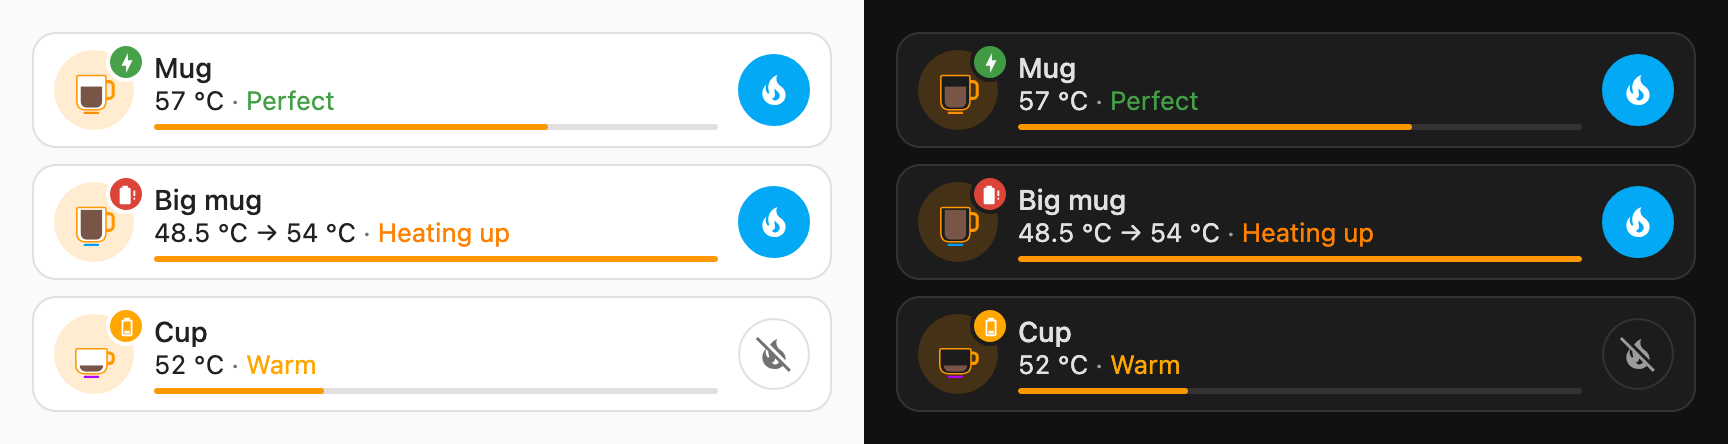
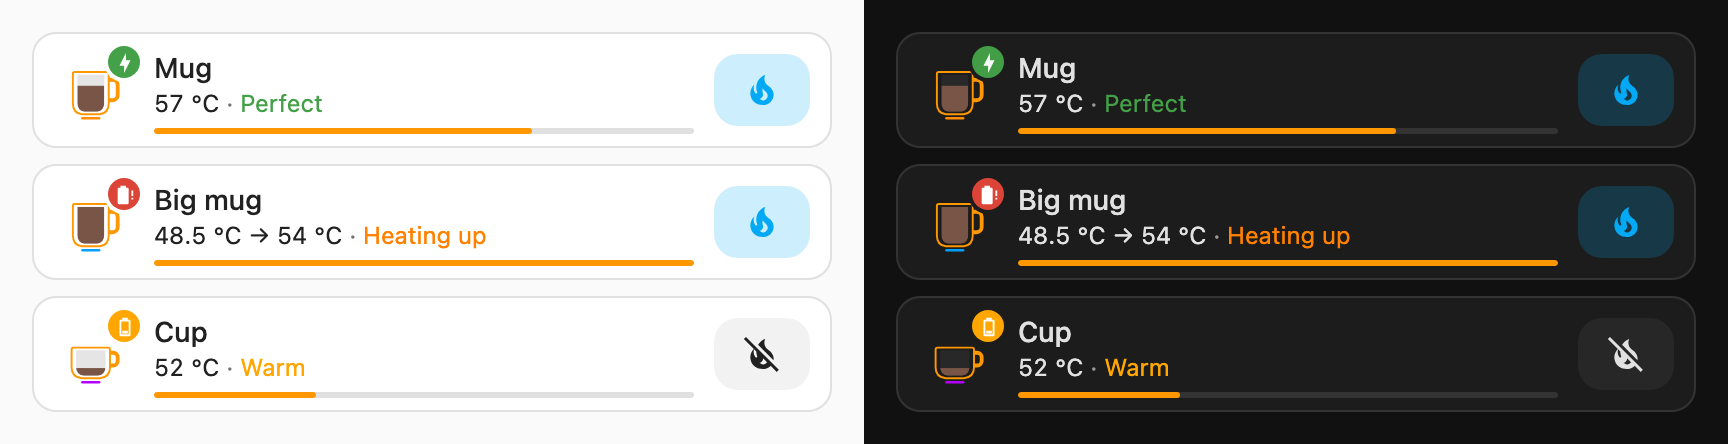
Row: mug without background circle, 12 px state line, rounded-square keep warm button; version 0.2.1

diff --git a/ember-card.js b/ember-card.js
@@ -6,7 +6,7 @@
  * from the Home Assistant theme.
  */
 
-const CARD_VERSION = "0.2.0";
+const CARD_VERSION = "0.2.1";
 const PLATFORM = "ember_mug";
 const MODES = ["full", "row"];
 const PARTS = ["picture", "level", "keep_warm", "target", "presets", "battery", "led"];
@@ -901,17 +901,21 @@ class EmberCard extends HTMLElement {
         column-gap: 10px; align-items: center; }
       ha-card.tile:hover { background: color-mix(in srgb, var(--primary-text-color) 4%, var(--card-background-color)); }
       ha-card.tile:focus-visible { outline: 2px solid var(--primary-color); outline-offset: -2px; }
-      .t-icon { width: 40px; height: 40px; border-radius: 50%; display: grid; place-items: center;
-        background: color-mix(in srgb, var(--accent-color, var(--primary-color)) 18%, transparent); }
-      .t-icon .pic { width: 26px; }
-      .t-icon .icon { --mdc-icon-size: 22px; color: var(--accent-color, var(--primary-color)); }
-      .t-icon .inner { fill: var(--card-background-color); }
-      .t-icon .badge { width: 16px; height: 16px; top: -9px; right: -11px; box-shadow: 0 0 0 2px var(--card-background-color); }
+      /* like the tiles around it: the icon stands free, the button is a rounded square */
+      .t-icon { width: 40px; height: 40px; display: grid; place-items: center; }
+      .t-icon .pic { width: 32px; }
+      .t-icon .icon { --mdc-icon-size: 24px; color: var(--accent-color, var(--primary-color)); }
+      .t-icon .inner { fill: var(--secondary-background-color); }
+      .t-icon .badge { width: 16px; height: 16px; top: -6px; right: -7px; box-shadow: 0 0 0 2px var(--card-background-color); }
       .t-icon .badge ha-icon { --mdc-icon-size: 11px; }
-      .t-line { overflow: hidden; text-overflow: ellipsis; white-space: nowrap; font-size: 13px; }
+      .tile .r-name { line-height: 20px; }
+      .t-line { overflow: hidden; text-overflow: ellipsis; white-space: nowrap; font-size: 12px; line-height: 16px; }
       .t-temp { color: var(--primary-text-color); font-variant-numeric: tabular-nums; }
       .tile .bar { margin-top: 4px; height: 3px; border-radius: 2px; }
-      .tile .power { width: 36px; height: 36px; }
+      .tile .power { width: 48px; height: 36px; border: 0; border-radius: 12px; color: var(--primary-text-color);
+        background: color-mix(in srgb, var(--primary-text-color) 6%, transparent); }
+      .tile .power.on { color: var(--primary-color); background: color-mix(in srgb, var(--primary-color) 20%, transparent); }
+      .tile .power:focus-visible { outline-offset: 2px; }
       .tile .power ha-icon { --mdc-icon-size: 20px; }
       .tiles .msg { margin: 0 4px; }
     `;
